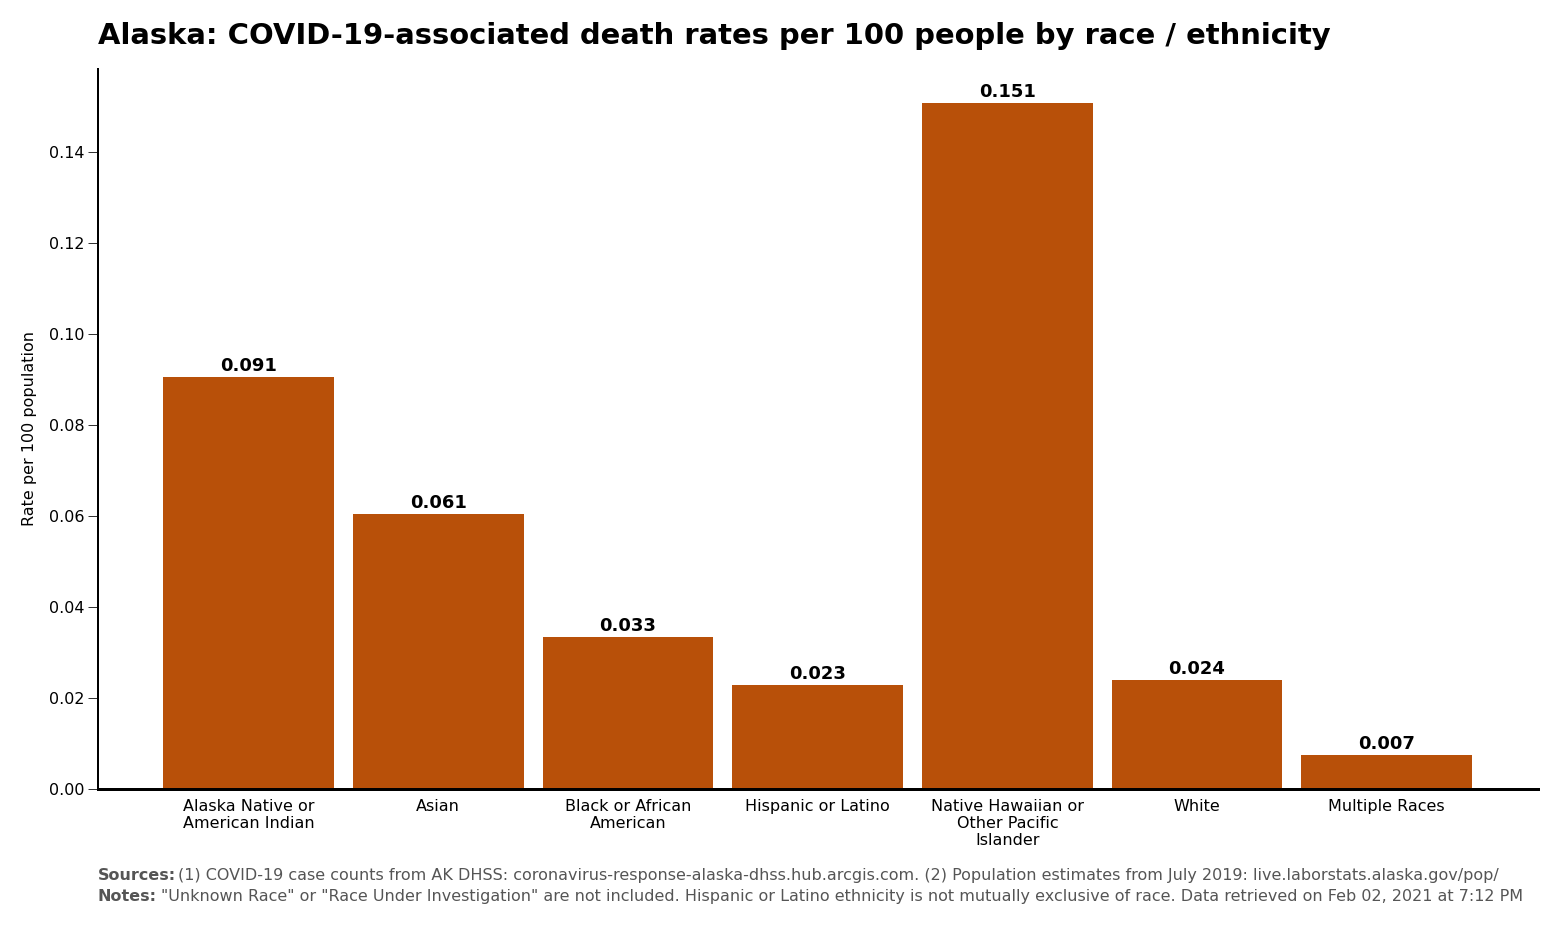
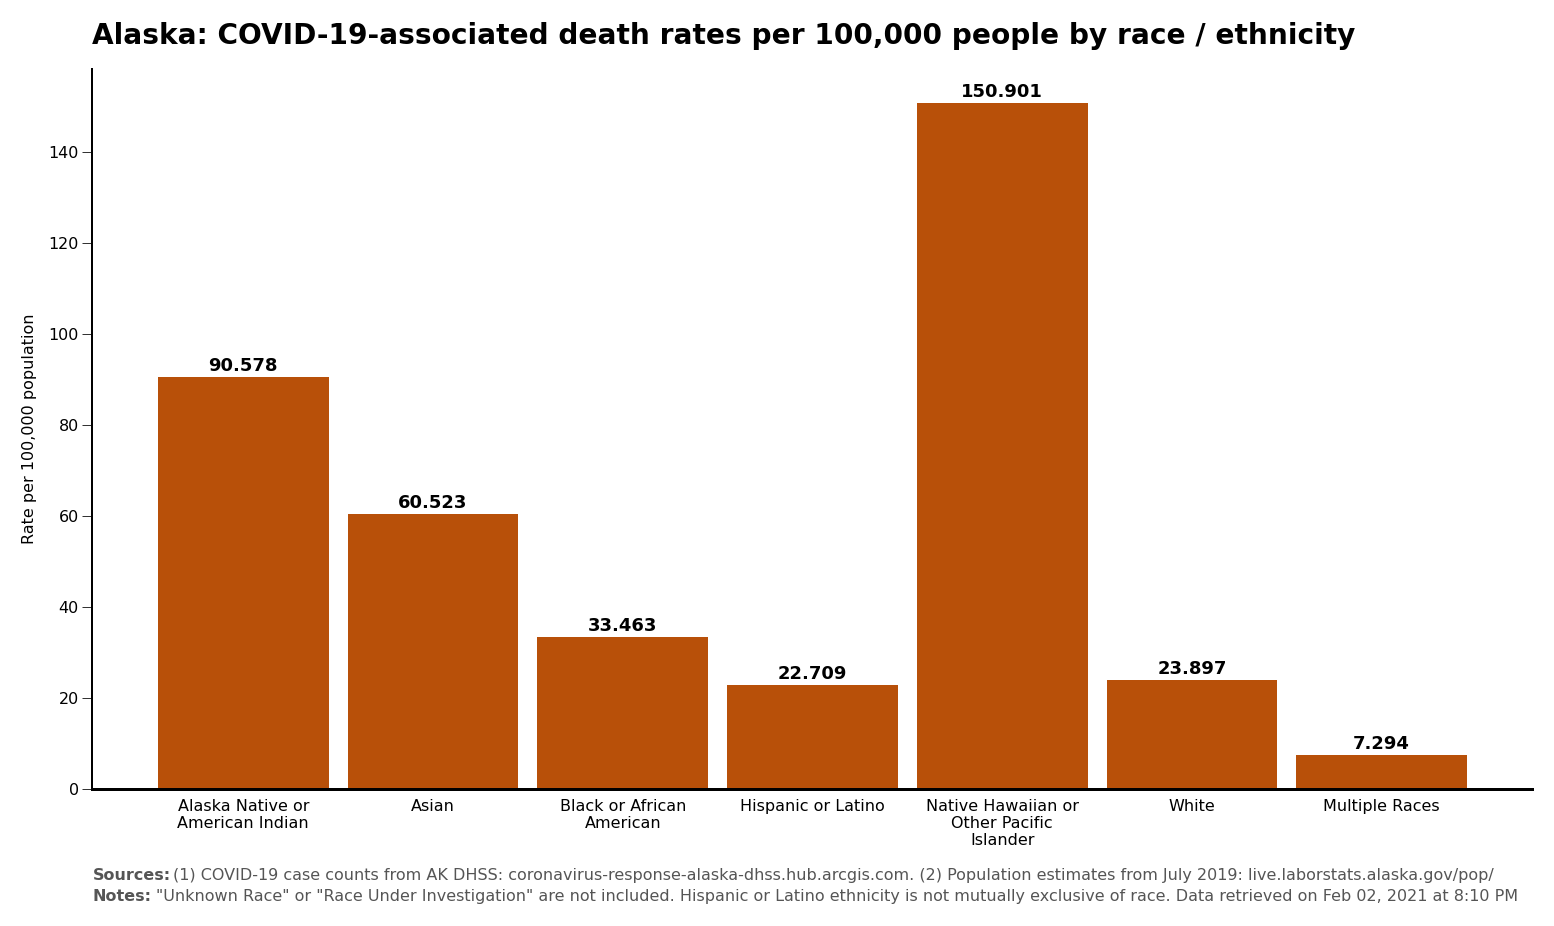
rate per 100000 people

diff --git a/scripts/ak-covid-rate-graphs.py b/scripts/ak-covid-rate-graphs.py
@@ -173,7 +173,7 @@ def count_plot(_series, _percents, color="#006B95", title="", width=0.9):
     ax.tick_params(axis="x", labelsize=16, length=0)
     ax.tick_params(axis="x", pad=10)
     ax.tick_params(axis="y", labelsize=16, length=10)
-    ax.set_title(title, fontsize=36, fontweight="bold", loc="left", pad=25)
+    ax.set_title(title, fontsize=28, fontweight="bold", loc="left", pad=25)
 
     def autolabel(rects):
         """Attach a text label above each bar in *rects*, displaying its height.
@@ -289,7 +289,7 @@ def rate_plot(_series, color="#006B95", title="", width=0.9):
     x_labels = ["\n".join(textwrap.wrap(label, 18)) for label in x_labels]
     x_locs = np.arange(len(x_labels))  # the label locations
     # y-values
-    y_values = _series.values * 100
+    y_values = _series.values * 100000
 
     fig = plt.figure(figsize=(20, 10))
     ax = fig.add_axes([0, 0, 1, 1])
@@ -299,7 +299,7 @@ def rate_plot(_series, color="#006B95", title="", width=0.9):
     #    xlabels = [re.sub("(.{10})", "\\1\n", label, 0, re.DOTALL) for label in xlabels]
     ax.set_xticks(np.arange(len(x_locs)))
     ax.set_xticklabels(x_labels, rotation=0)
-    ax.set_ylabel("Rate per 100 population", fontsize=16, labelpad=12)
+    ax.set_ylabel("Rate per 100,000 population", fontsize=16, labelpad=12)
     # grid
     #     ax.grid(axis='y')
     #     ax.set_axisbelow(True)
@@ -319,7 +319,7 @@ def rate_plot(_series, color="#006B95", title="", width=0.9):
 
     ax.tick_params(axis="y", labelsize=16, length=10)
 
-    ax.set_title(title, fontsize=29, fontweight="bold", loc="left", pad=25)
+    ax.set_title(title, fontsize=28, fontweight="bold", loc="left", pad=25)
 
     def autolabel(rects):
 
@@ -398,16 +398,16 @@ to_plot = rate_data.drop(labels=["Unknown Race", "Race Under Investigation"])
 
 case_rate_plot = rate_plot(
     to_plot["Case Rate"],
-    title="Alaska: COVID-19-associated case rates per 100 people by race / ethnicity",
+    title="Alaska: COVID-19-associated case rates per 100,000 people by race / ethnicity",
 )
 hosp_rate_plot = rate_plot(
     to_plot["Hospitalization Rate"],
-    title="Alaska: COVID-19-associated hospitalization rates per 100 people by race / ethnicity",
+    title="Alaska: COVID-19-associated hospitalization rates per 100,000 people by race / ethnicity",
     color="#33a02c",
 )
 deat_rate_plot = rate_plot(
     to_plot["Death Rate"],
-    title="Alaska: COVID-19-associated death rates per 100 people by race / ethnicity",
+    title="Alaska: COVID-19-associated death rates per 100,000 people by race / ethnicity",
     color="#B85009",
 )
 
